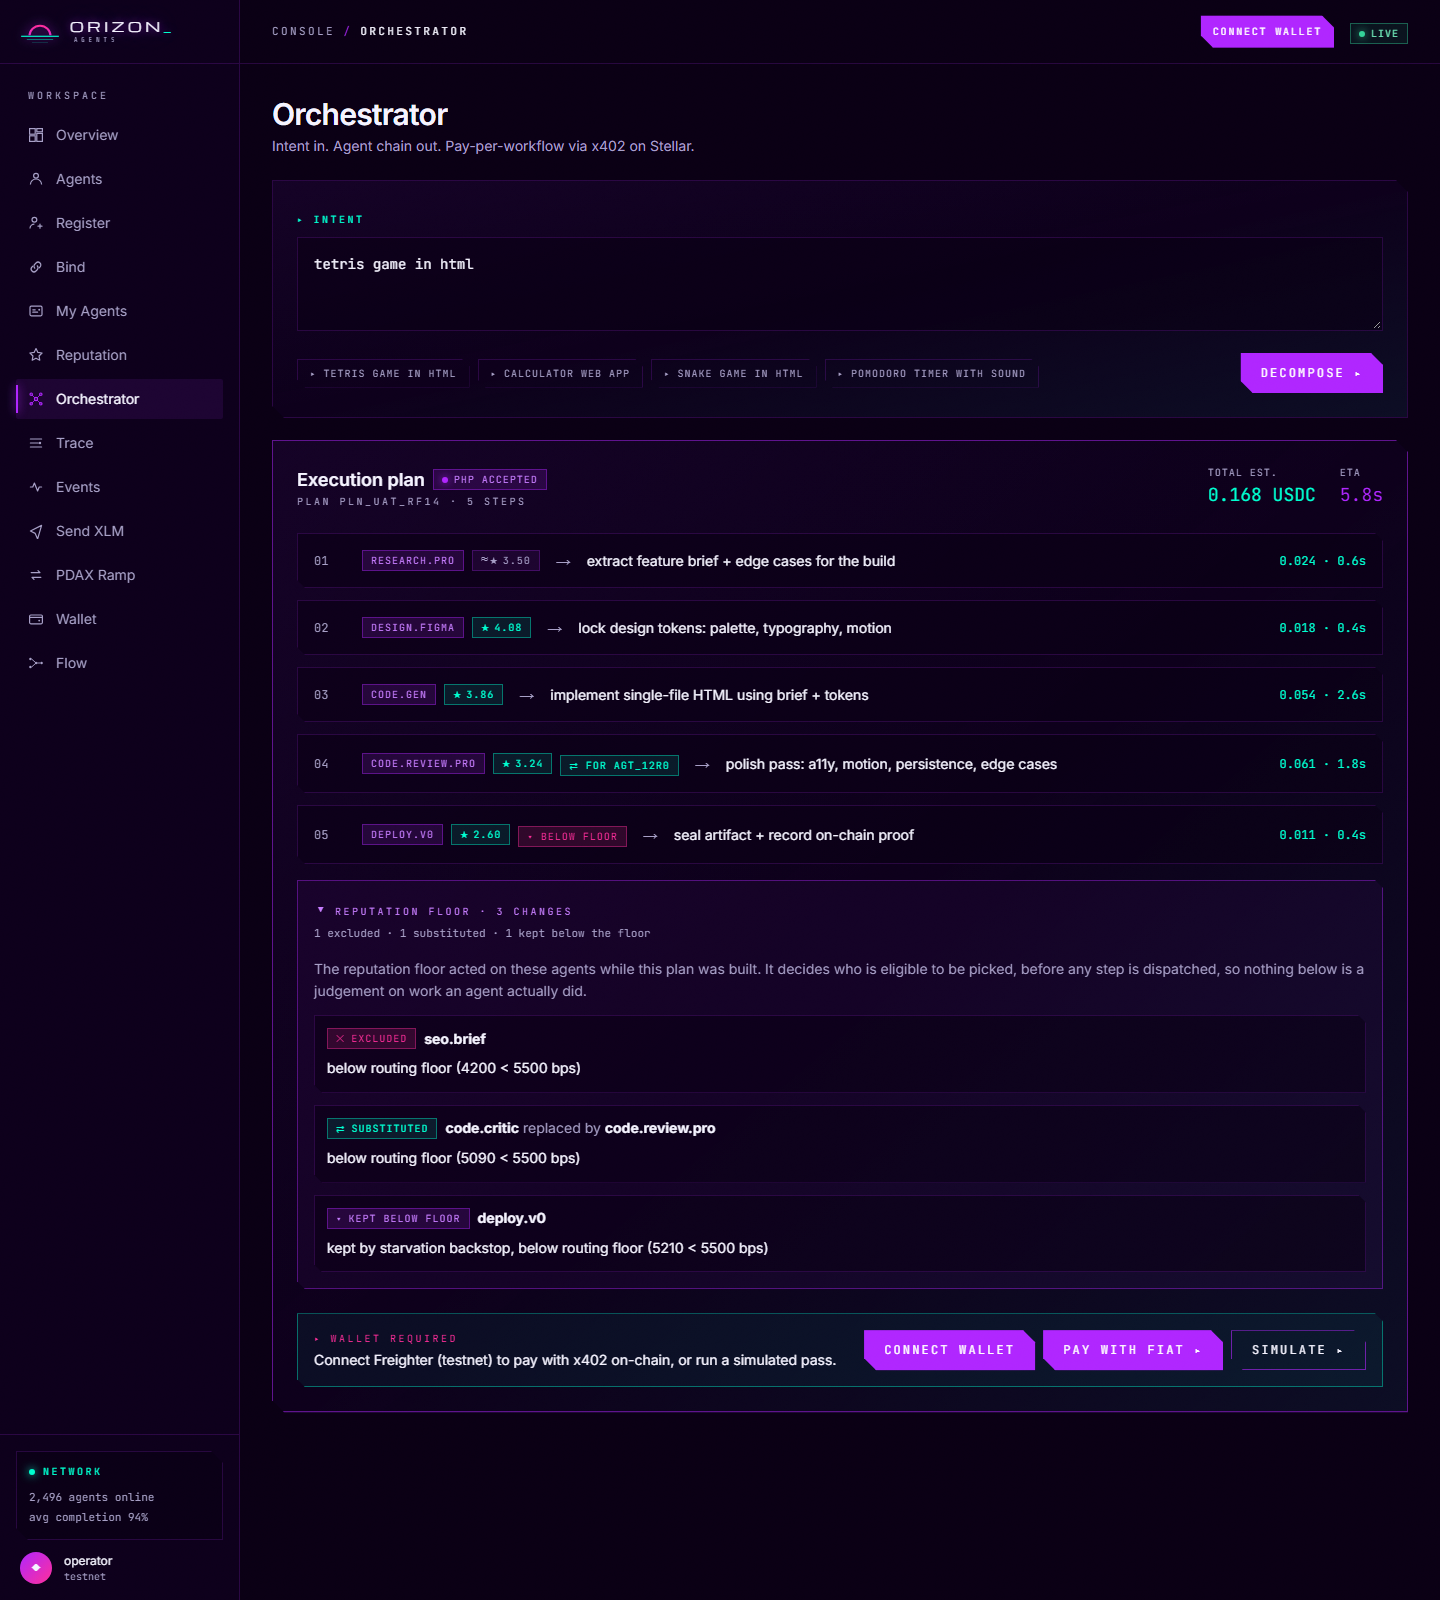
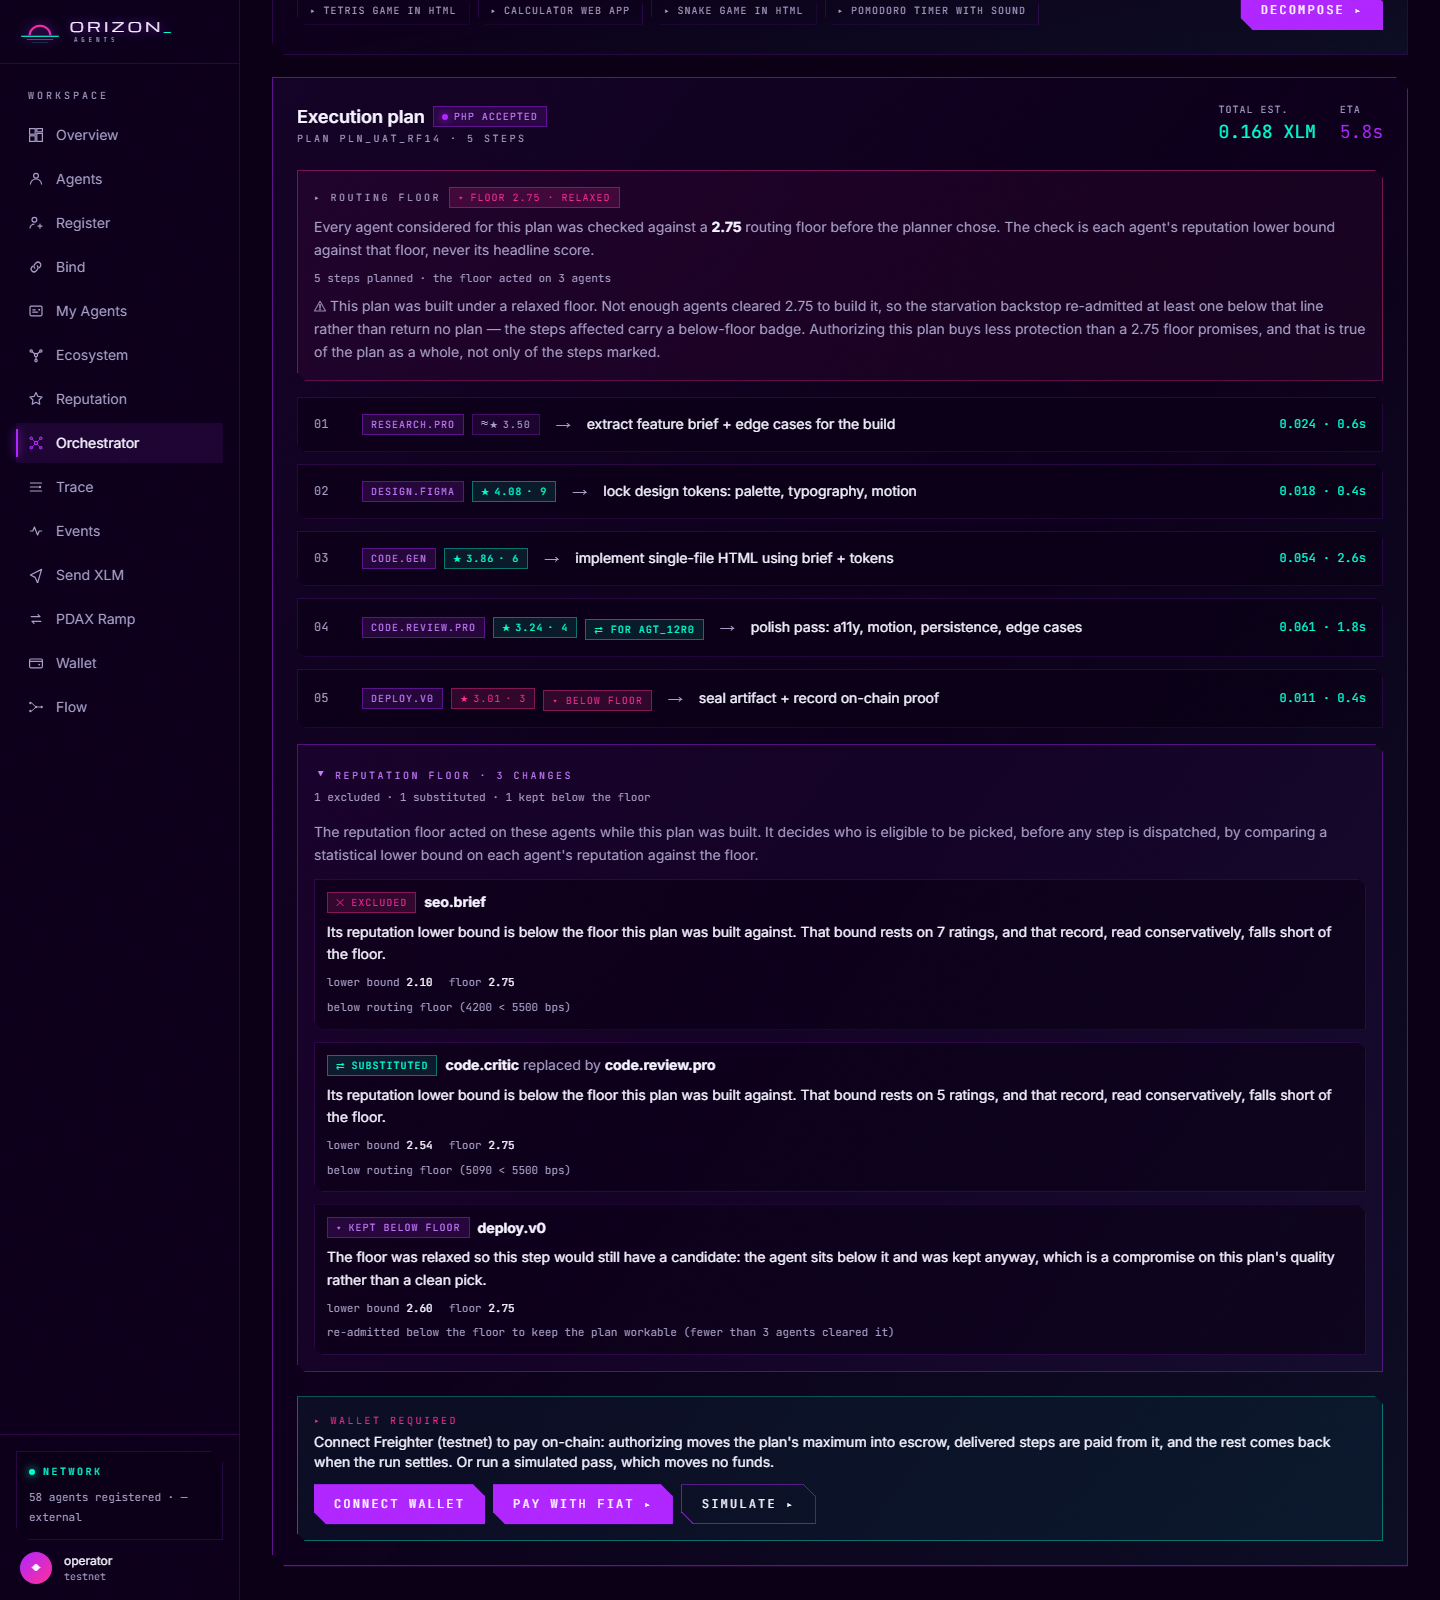
updated rf-17 evidence module

diff --git a/docs/evidence/rf-17-reputation-floor-plan.md b/docs/evidence/rf-17-reputation-floor-plan.md
@@ -3,7 +3,7 @@
 **Artifact:** `rf-17-reputation-floor-plan.png`  
 **Satisfies:** SOW §6.1 Deliverable 2 — one frame showing per-agent
 reputation alongside an excluded sub-floor agent.  
-**Captured:** 2026-09-16T18:43:48.672Z at 1440×1600, Chromium.  
+**Captured:** 2026-10-02T02:30:14.500Z at 1440×1600, Chromium.  
 **Produced by:** `tests/reputation-floor.spec.ts` — the RF-17 test, which
 asserts every element below is inside the single frame before it captures it.
 
@@ -15,13 +15,20 @@ not produced by the live backend deciding anything. The test fulfilled
 floor notices (one excluded, one substituted, one kept below the floor).
 
 It had to. On the day of capture the live testnet registry held
-17 agents and **0 of them had any
-on-chain rating at all** — every agent reads `count: 0`, `source: "prior"`,
-with a Wilson lower bound of 5677 bps against a
-routing floor of 5500 bps. Nothing on that registry sits below the
-floor, so the real backend has no floor action to report and cannot produce
-a floor-acted plan on this target. A live decompose of the same intent, run
-in the same session, returned `notices: []` (0 notices).
+58 agents; 12 of them carried on-chain
+ratings, and 1 sat below the routing floor of 5500 bps
+(faulty_test_v2 at 5459 bps). None of those is in the demo-kit
+pipeline: the kit agents read Wilson lower bounds of
+5679 / 5679 / 5680 / 5689 / 5716 / 5718 bps, every one clear of the floor, so the
+deterministic kit path has no floor action to report and cannot produce a
+floor-acted plan on this target. A live decompose of the same intent, run in
+the same session, returned 8 notices and
+**0 floor actions** — every notice was an agent with no
+endpoint bound, which the floor did not decide.
+
+The free-form path does exclude a real sub-floor agent live (the RF-05 live
+test in the same file proves it), but its plan is written by a language model
+and is not the same plan twice, so it cannot back a reproducible frame.
 
 Everything else in the frame is real: the deployed frontend, its markup, its
 accessibility semantics, its wording, and every request other than the
@@ -55,12 +62,14 @@ page's own preset button and Decompose control.
 
 **In the picture (supplied by the test):** five steps — one scored on the
 prior at 7000 bps, four on claimed on-chain evidence at 8150 / 7720 / 6480 /
-5210 bps — plus three floor actions: `seo.brief` excluded at 4200 bps,
-`code.critic` substituted by `code.review.pro` at 5090 bps, and `deploy.v0`
-kept below the floor at 5210 bps by the starvation backstop.
+6020 bps — plus three floor actions, each judged on its lower bound:
+`seo.brief` excluded at 4200 bps, `code.critic` substituted by
+`code.review.pro` at 5090 bps, and `deploy.v0` kept below the floor at
+5210 bps by the starvation backstop.
 
-**On the live target (measured this run):** every agent on the prior, no
-on-chain evidence anywhere, no agent below the floor, no notices.
+**On the live target (measured this run):** 12 of
+58 agents rated on-chain, 1 below the floor and
+outside the kit pipeline, 0 floor actions on the kit plan.
 
 ## Which build this is
 
@@ -69,14 +78,15 @@ hardcoded `"version": "0.1.0"` (defect D-026). The best
 available anchor is the capture date above plus the response shape observed
 in the same run:
 
-- `POST /api/orchestrator/decompose` top-level keys: `intent`, `notices`, `plan_id`, `steps`, `total_eta`, `total_usdc`
-  — no `floor_bps`, no `reputation_degraded`.
-- `GET /api/stellar/reputation/{agent_id}` carries no `degraded` key
-  (defect D-024: the backend strips the flag at the API boundary, so no
-  client can tell an RPC outage from a cold start).
+- `POST /api/orchestrator/decompose` top-level keys: `floor_bps`, `intent`, `notices`, `plan_id`, `planner_fallback`, `reputation_degraded`, `steps`, `total_eta`, `total_usdc`
+  — carries `floor_bps`, carries `reputation_degraded`
+  (both were missing on the split deploy recorded as D-031).
+- `GET /api/stellar/reputation` carries a `degraded` key
+  (the flag D-024 found stripped at the API boundary, which is what lets a
+  client tell an RPC outage from a cold start).
 
-Later builds add those fields; a frame captured against one of them would
-show a different shape here.
+A frame captured against a build with a different response shape would
+show a different list here.
 
 ## What this frame proves, and what it does not
 
@@ -84,12 +94,12 @@ show a different shape here.
 renders, in one frame, a reputation badge per step carrying the score and
 whether it came from the chain or the prior, and — once the disclosure is
 open — each floor action with the agent named, the action taken, the
-replacement where there was one, and the reason including the applied floor
-in basis points.
+replacement where there was one, the reason, and the agent's lower bound
+and the applied floor that decided it. A below-floor reason also carries
+both numbers in basis points; the floor-relaxed reason carries none.
 
 **Does not prove:** that the live backend produced any of it. It did not.
-Nor does it cover the free-form intent path: on that path the floor is
-applied only while building the planner prompt and is never re-checked
-afterwards, and a floor relaxation there emits no notice at all (defects
-D-028, D-029). The notices rendered here are, on this build, only ever
-produced by the demo-kit path.
+Nor does it cover the free-form intent path. That path now holds every
+model step to the shortlist it was offered and discloses a relaxed floor
+(the fixes for defects D-028 and D-029), and the RF-05 live test checks the
+exclusion of a real sub-floor agent there, but no frame of it is filed.
